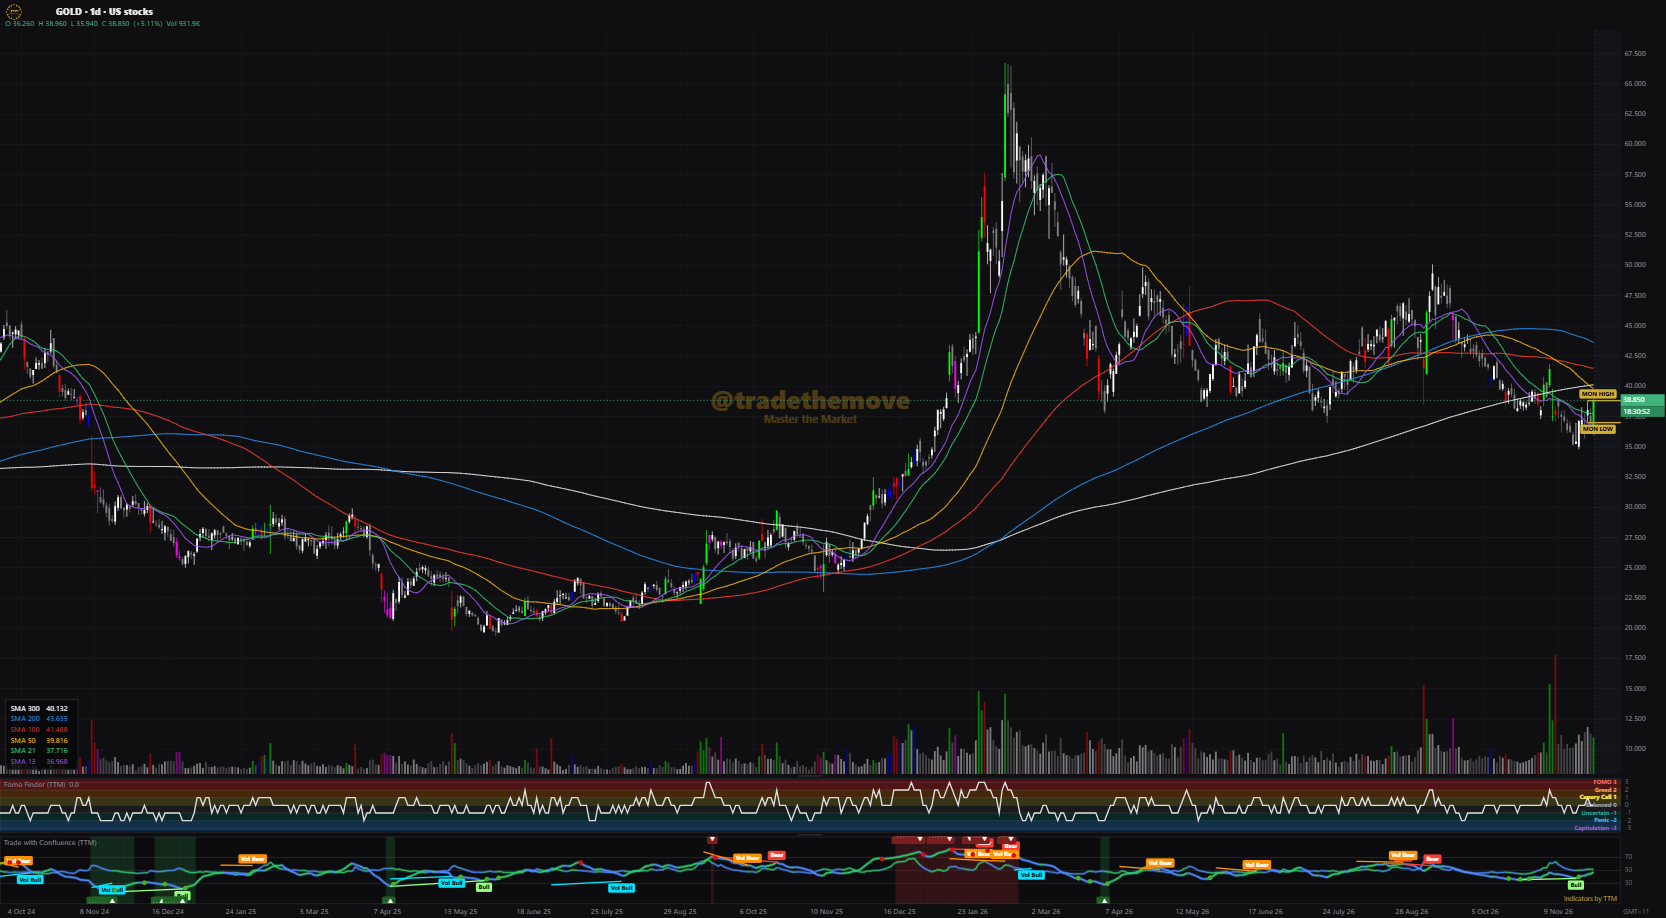
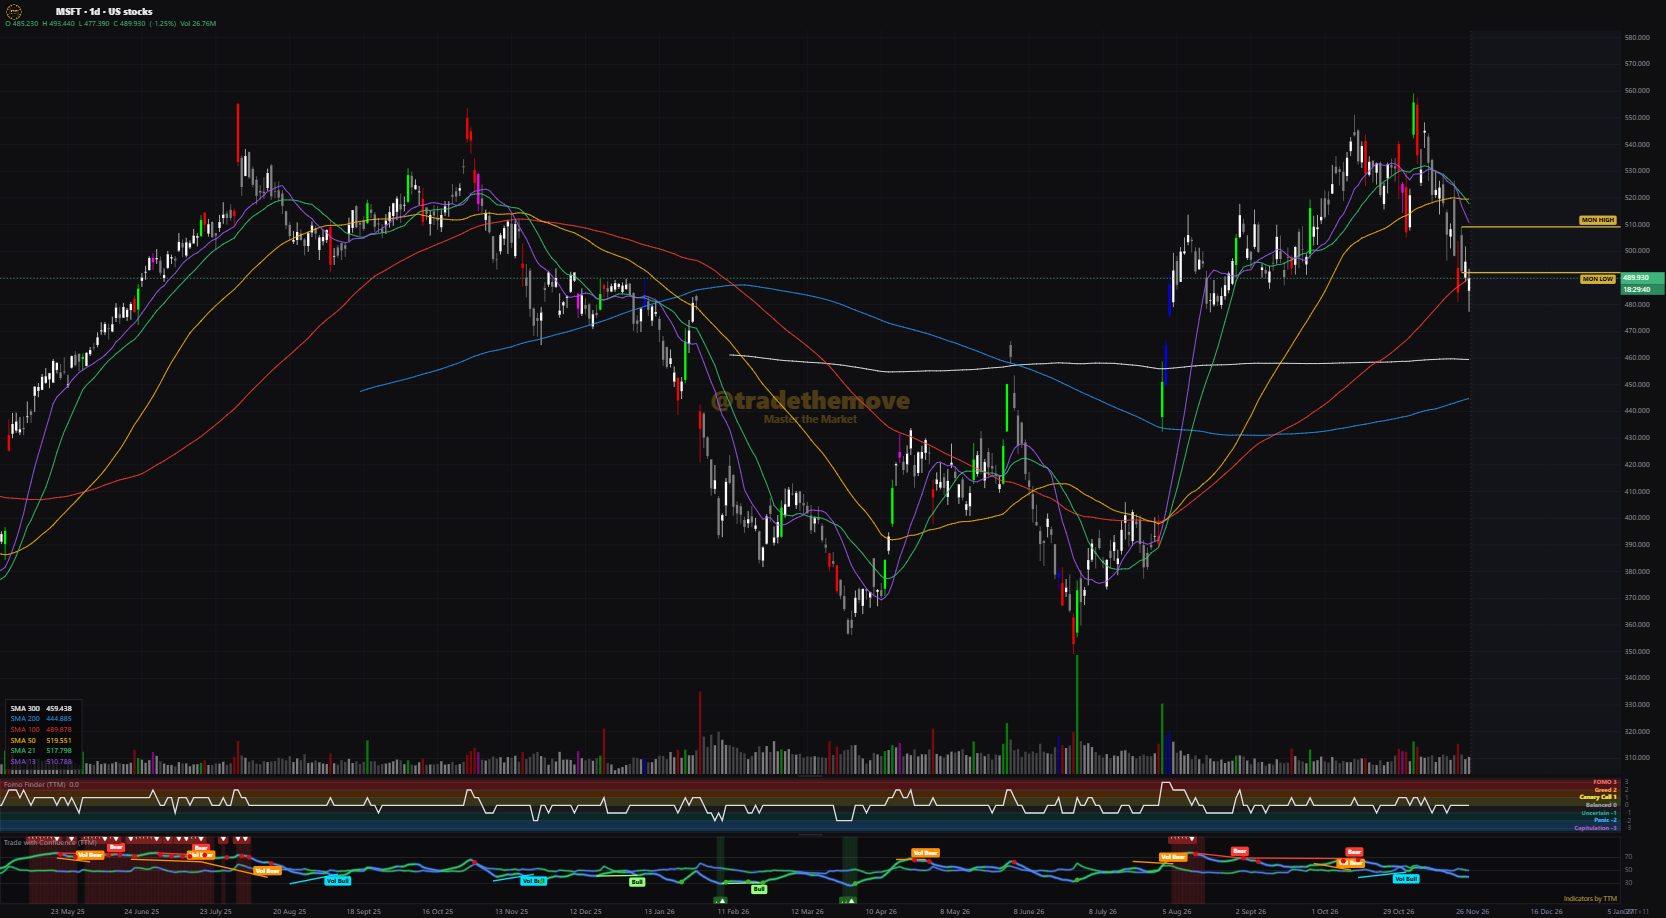
LENS showcase: MSFT screenshot replaces GOLD
Claude-Session: https://claude.ai/code/session_01RY1qkMbBb93USECv5TYTQs

diff --git a/accounts.js b/accounts.js
@@ -411,7 +411,7 @@ window.ttmLvl = lvlBadges;
 // what TTM LENS looks like, shown to anyone who has not got it yet
 function lensShowcase(){
   const u = f => new URL('img/' + f, BASE).href, f = ['Live candles for every coin on Bybit, Binance and Bitget (spot and perp), plus US stocks', 'Drawing tools: trend line, ray, Fib, box, path and measure', 'TTM indicators: SMA stack, PVSRA candles and volume, Fomo Finder, Trade with Confluence, Monday and weekend highs and lows', 'Chart alerts on indicators and drawings', 'Bar replay: pick a candle, press play and watch the chart unfold', 'Paper trading and competitions', 'Works on your phone'], im = (file, alt) => `<a href="${u(file)}" target="_blank" rel="noopener"><img src="${u(file)}" alt="${alt}" style="width:100%;height:auto !important;border-radius:10px;border:1px solid #2a2a2e;display:block" loading="lazy"></a>`;
-  return `<div class="lens-show" style="margin-top:18px;text-align:left"><div style="display:grid;grid-template-columns:1fr;gap:12px">${im('lens-preview-btc.png', 'TTM LENS on BTC/USDT daily with the TTM indicators')}${im('lens-preview-stock.png', 'TTM LENS on a US stock daily with the TTM indicators')}</div><p style="font-size:11px;color:var(--mute,#9a978f);margin:6px 0 10px">Real TTM LENS screenshots: Bitcoin (Bybit perp) and a US stock. Tap to enlarge.</p><ul style="margin:0;padding-left:18px;font-size:13.5px;line-height:1.7">${f.map(x => '<li>' + x + '</li>').join('')}</ul></div>`;
+  return `<div class="lens-show" style="margin-top:18px;text-align:left"><div style="display:grid;grid-template-columns:1fr;gap:12px">${im('lens-preview-btc.png', 'TTM LENS on BTC/USDT daily with the TTM indicators')}${im('lens-preview-stock.png', 'TTM LENS on Microsoft (MSFT) daily with the TTM indicators')}</div><p style="font-size:11px;color:var(--mute,#9a978f);margin:6px 0 10px">Real TTM LENS screenshots: Bitcoin (Bybit perp) and Microsoft. Tap to enlarge.</p><ul style="margin:0;padding-left:18px;font-size:13.5px;line-height:1.7">${f.map(x => '<li>' + x + '</li>').join('')}</ul></div>`;
 }
 window.ttmLensShowcase = lensShowcase;
 function applyGates(){

diff --git a/lens-guide.html b/lens-guide.html
@@ -51,4 +51,4 @@ var a=document.getElementById('tI'),b=document.getElementById('tA');
 function s(i){a.className=i?'on':'';b.className=i?'':'on';document.getElementById('ios').hidden=!i;document.getElementById('and').hidden=i}
 a.onclick=function(){s(true)};b.onclick=function(){s(false)};
 </script>
-</div></div><script src="accounts.js?v=1795759500"></script><script>(function(){var n=0;function go(){var w=window.ttmWho?window.ttmWho():{ready:false};if(!w.ready){if(++n<400)return setTimeout(go,100);document.getElementById("lgMsg").textContent="Could not check your account. Refresh this page.";return}var has=false;try{has=!!localStorage.getItem('ttm_auth_v1')}catch(e){}if(!w.user&&(window.__m=(window.__m||0)+1)<(has?260:40))return setTimeout(go,150);if(!w.user){document.getElementById("lgMsg").innerHTML="Sign in to the <a href=\"index.html\" style=\"color:#f0b929\">TTM terminal</a> first, then open this guide again.";return}if(!(w.admin||w.lens)){document.getElementById("lgMsg").textContent="This guide is for TTM Team members on the Pro plan.";return}document.getElementById("lgGate").remove();document.getElementById("lgBody").hidden=false}go()})();</script></body></html>
+</div></div><script src="accounts.js?v=1795760200"></script><script>(function(){var n=0;function go(){var w=window.ttmWho?window.ttmWho():{ready:false};if(!w.ready){if(++n<400)return setTimeout(go,100);document.getElementById("lgMsg").textContent="Could not check your account. Refresh this page.";return}var has=false;try{has=!!localStorage.getItem('ttm_auth_v1')}catch(e){}if(!w.user&&(window.__m=(window.__m||0)+1)<(has?260:40))return setTimeout(go,150);if(!w.user){document.getElementById("lgMsg").innerHTML="Sign in to the <a href=\"index.html\" style=\"color:#f0b929\">TTM terminal</a> first, then open this guide again.";return}if(!(w.admin||w.lens)){document.getElementById("lgMsg").textContent="This guide is for TTM Team members on the Pro plan.";return}document.getElementById("lgGate").remove();document.getElementById("lgBody").hidden=false}go()})();</script></body></html>

diff --git a/crypto/index.html b/crypto/index.html
@@ -6029,7 +6029,7 @@ fill(); paint();
 <script src="../education.js?v=2"></script>
 <script src="../ttmind.js?v=32"></script>
 <script src="../ttmpaper.js?v=15"></script>
-<script src="../accounts.js?v=1795759500"></script>
+<script src="../accounts.js?v=1795760200"></script>
 <script>
 (function(){
   const secs = Array.from(document.querySelectorAll('body > section[id]'));

diff --git a/charts/index.html b/charts/index.html
@@ -14,7 +14,7 @@
 <script src="../ttmcharts.js?v=85"></script>
 <script src="../ttmind.js?v=32"></script>
 <script src="../ttmpaper.js?v=15"></script>
-<script src="../accounts.js?v=1795759500"></script>
+<script src="../accounts.js?v=1795760200"></script>
 <script>
 (function(){
   const q = new URLSearchParams(location.search), g = id => document.getElementById(id);

diff --git a/index.html b/index.html
@@ -247,6 +247,6 @@ footer.landing{position:relative;z-index:1;text-align:center;color:var(--mute);f
   TTM &middot; Trade The Move — for information purposes only, not financial advice.
 </footer>
 
-<script src="accounts.js?v=1795759500"></script>
+<script src="accounts.js?v=1795760200"></script>
 </body>
 </html>

diff --git a/tradfi/index.html b/tradfi/index.html
@@ -2576,7 +2576,7 @@ load();
 })();
 </script>
 <script src="../tradfi_extra.js?v=11"></script>
-<script src="../accounts.js?v=1795759500"></script>
+<script src="../accounts.js?v=1795760200"></script>
 <script>
 (function(){
   const secs = Array.from(document.querySelectorAll('body > section[id]'));
